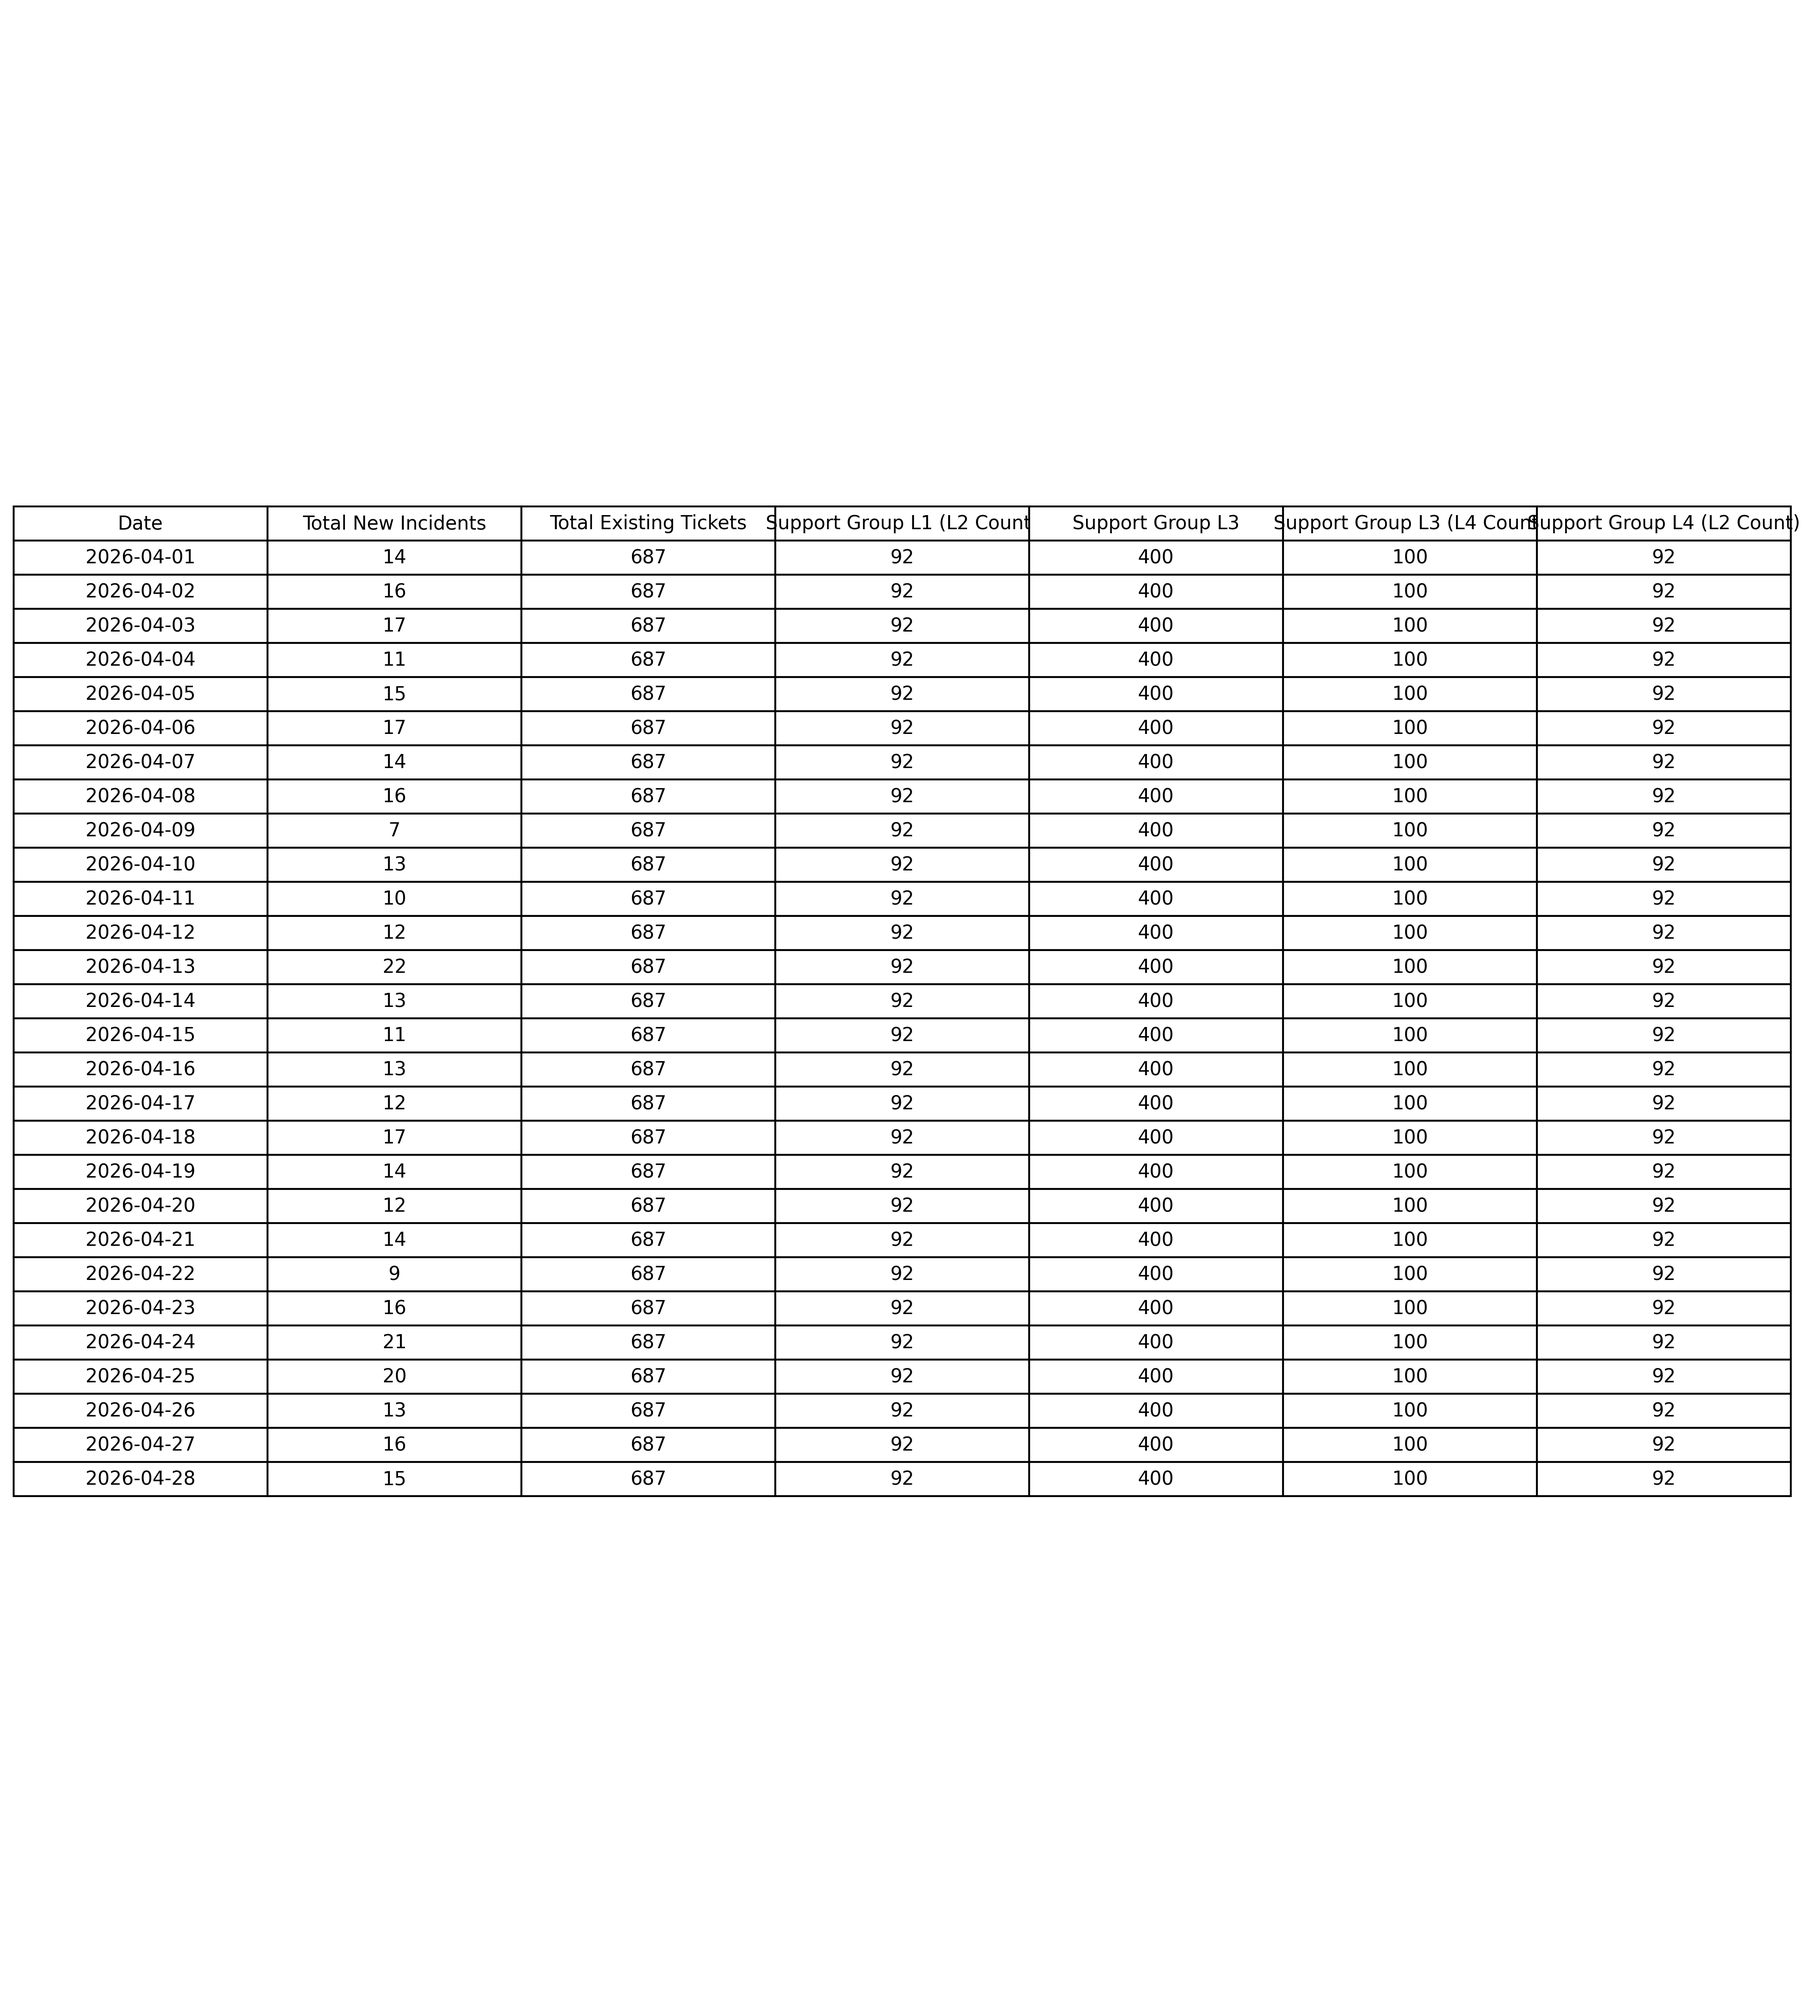
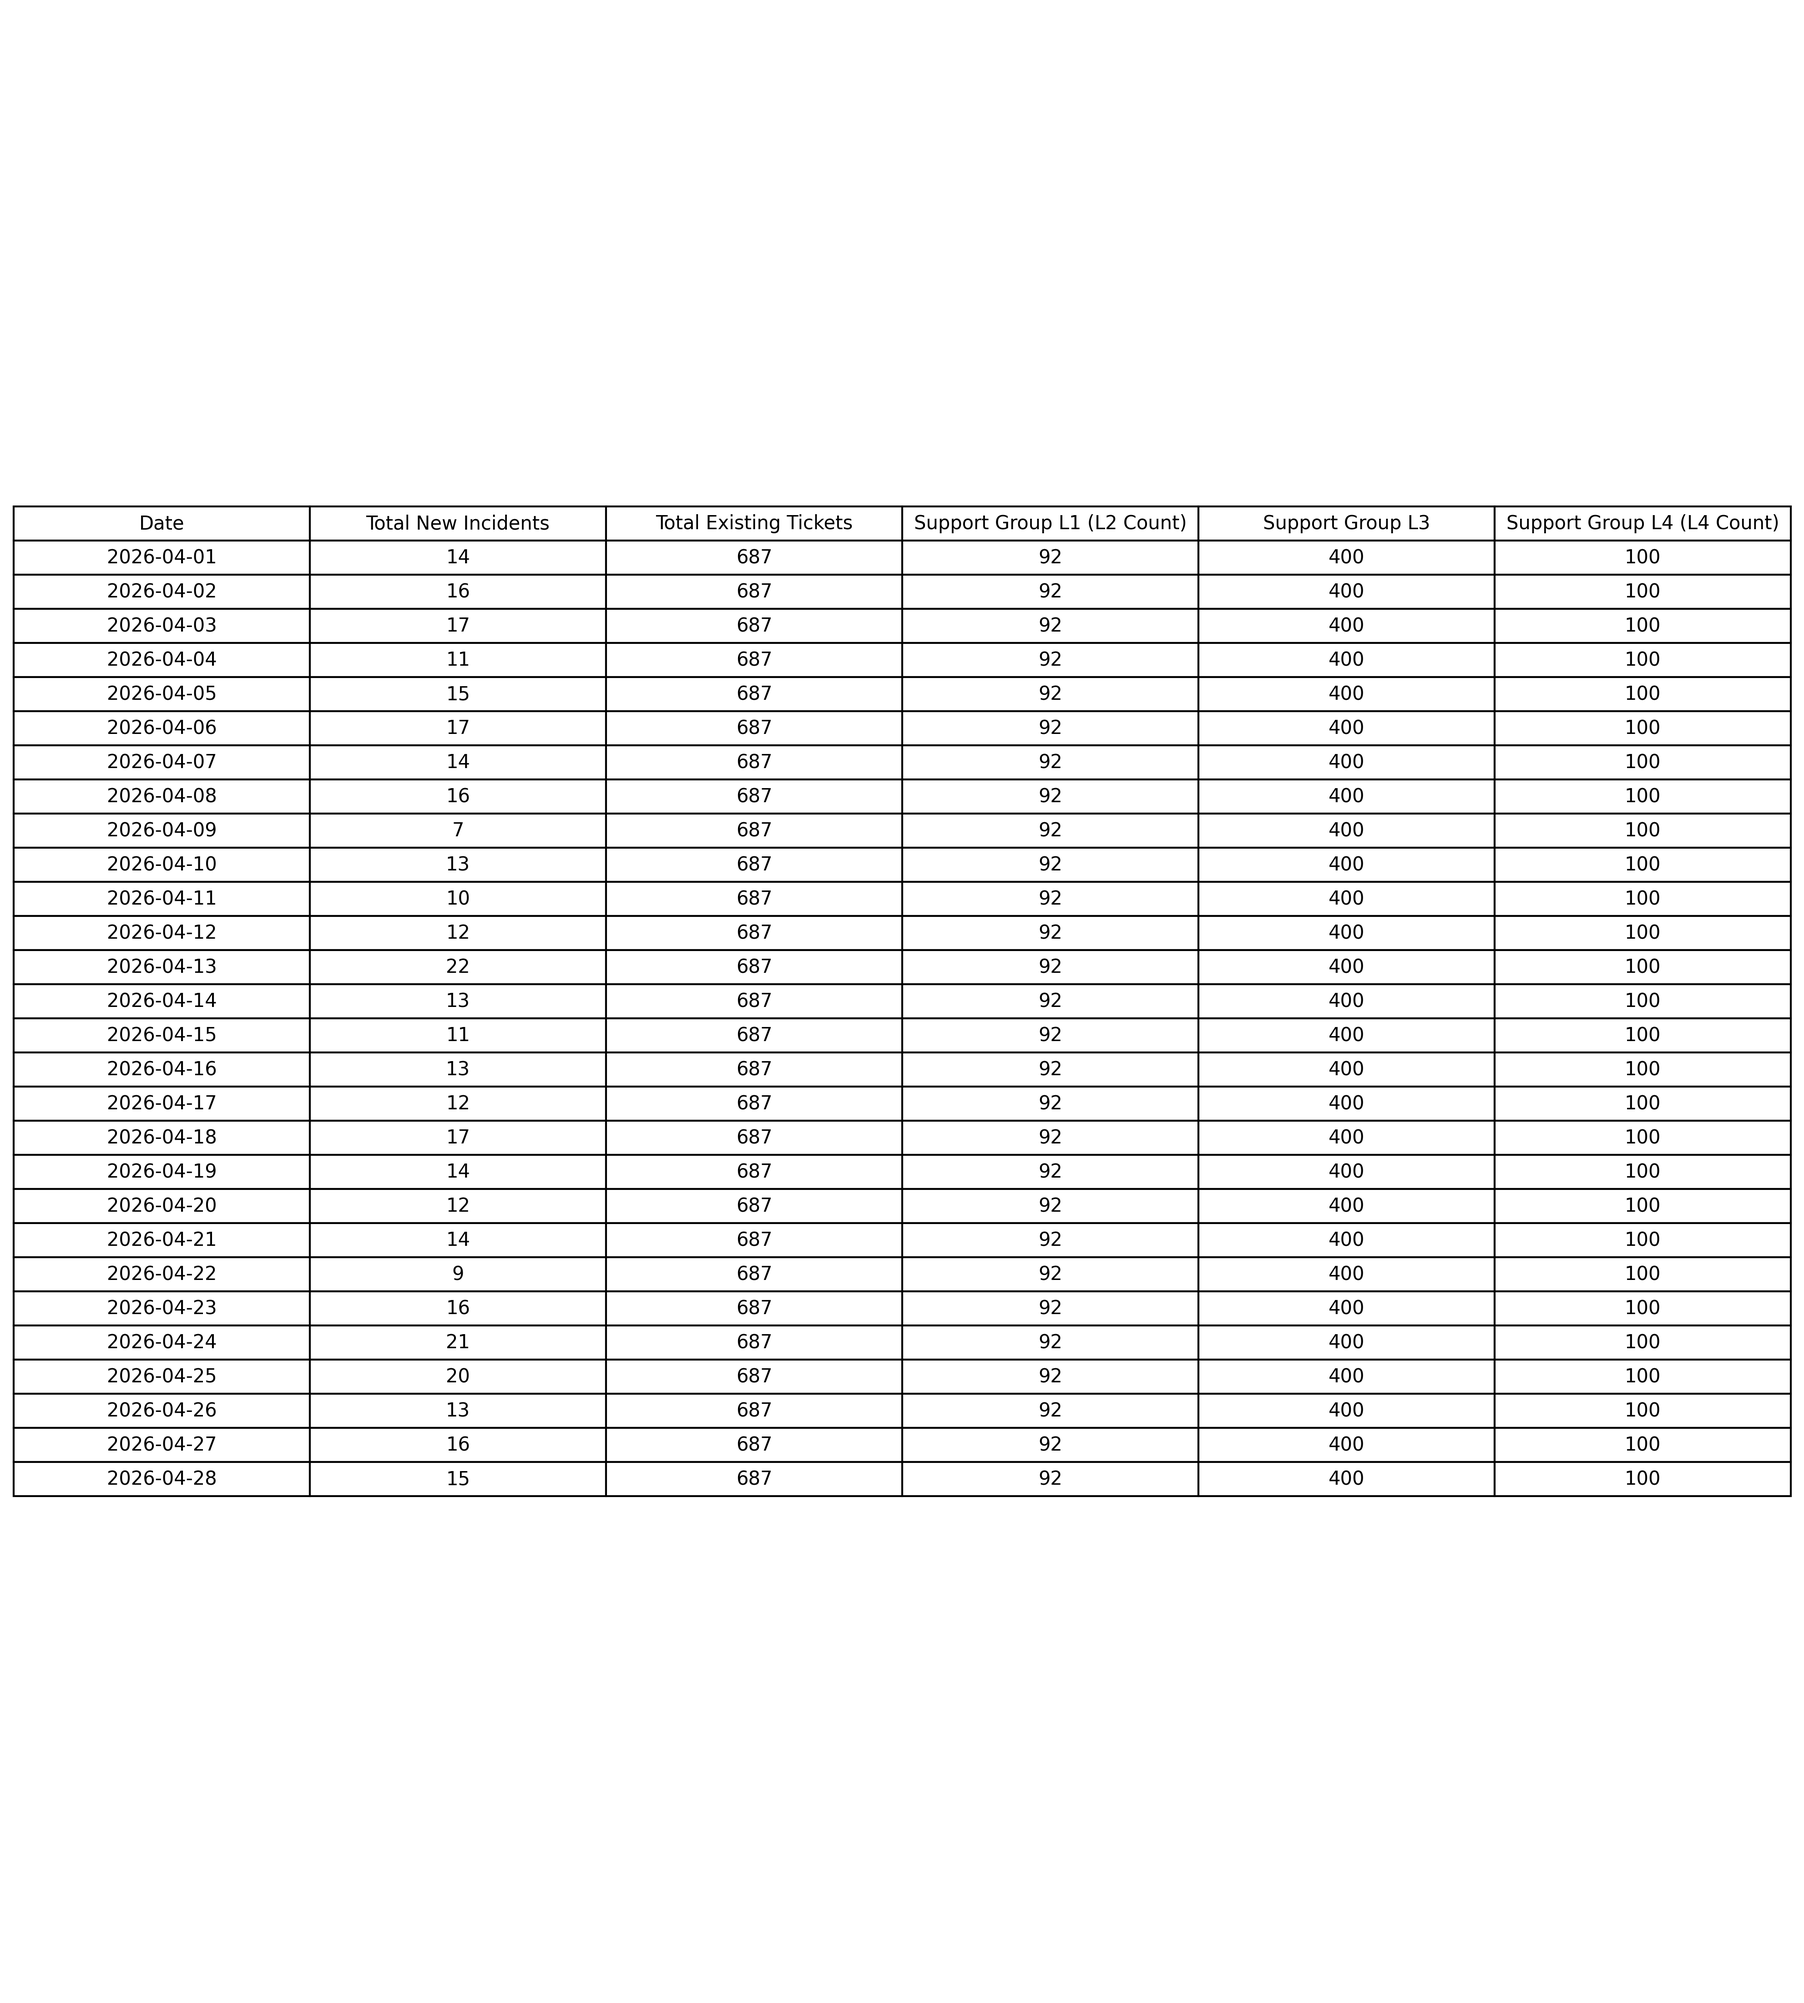
cateva completari

diff --git a/data_analysis/L3_daily_distribution_analysis.py b/data_analysis/L3_daily_distribution_analysis.py
@@ -69,8 +69,7 @@ def analyze_data(metrics, incidents):
             "Total Existing Tickets": total_existing,
             "Support Group L1 (L2 Count)": l2_count,
             "Support Group L3": l3_count,
-            "Support Group L3 (L4 Count)": l4_count,
-            "Support Group L4 (L2 Count)": l2_count
+            "Support Group L4 (L4 Count)": l4_count
         })
     
     return pd.DataFrame(results)

diff --git a/web app/fastapi_app.py b/web app/fastapi_app.py
@@ -80,7 +80,7 @@ def _upload_form() -> str:
     <label>metric_instance.csv</label>
     <input type="file" name="metric_file" accept=".csv"/>
 
-    <label>problem.csv (optional)</label>
+    <label>problem.csv </label>
     <input type="file" name="problem_file" accept=".csv"/>
 
     <h2>Option B — Use file paths on this machine</h2>
